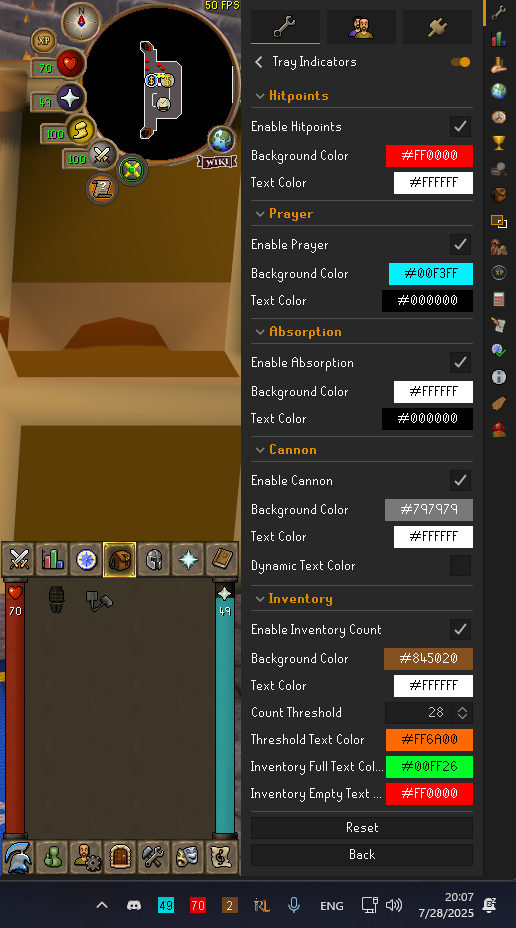
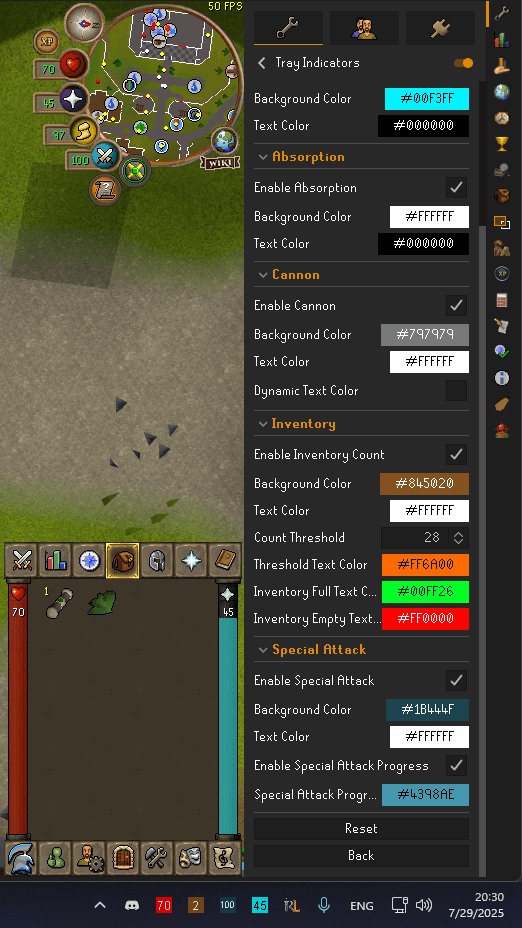
Updated readme, plugin description, and tags to include special attack

diff --git a/src/main/java/com/trayindicators/TrayIndicatorsPlugin.java b/src/main/java/com/trayindicators/TrayIndicatorsPlugin.java
@@ -44,7 +44,7 @@ import java.util.*;
 @Slf4j
 @PluginDescriptor(
 	name = "Tray Indicators",
-	description = "Displays your hitpoints, prayer, absorption or cannonballs in the system tray.",
+	description = "Displays your hitpoints, prayer, absorption, special attack, cannon ammo or inventory count in the system tray.",
 	tags = {"notifications"}
 )
 public class TrayIndicatorsPlugin extends Plugin

diff --git a/README.md b/README.md
@@ -7,6 +7,7 @@ Displays the following information:
 * Absorption in NMZ
 * Amount of cannonballs in your cannon
 * Amount of items in your inventory
+* Special attack
 
 Customizable options:
 * Icons can be disabled individually.
